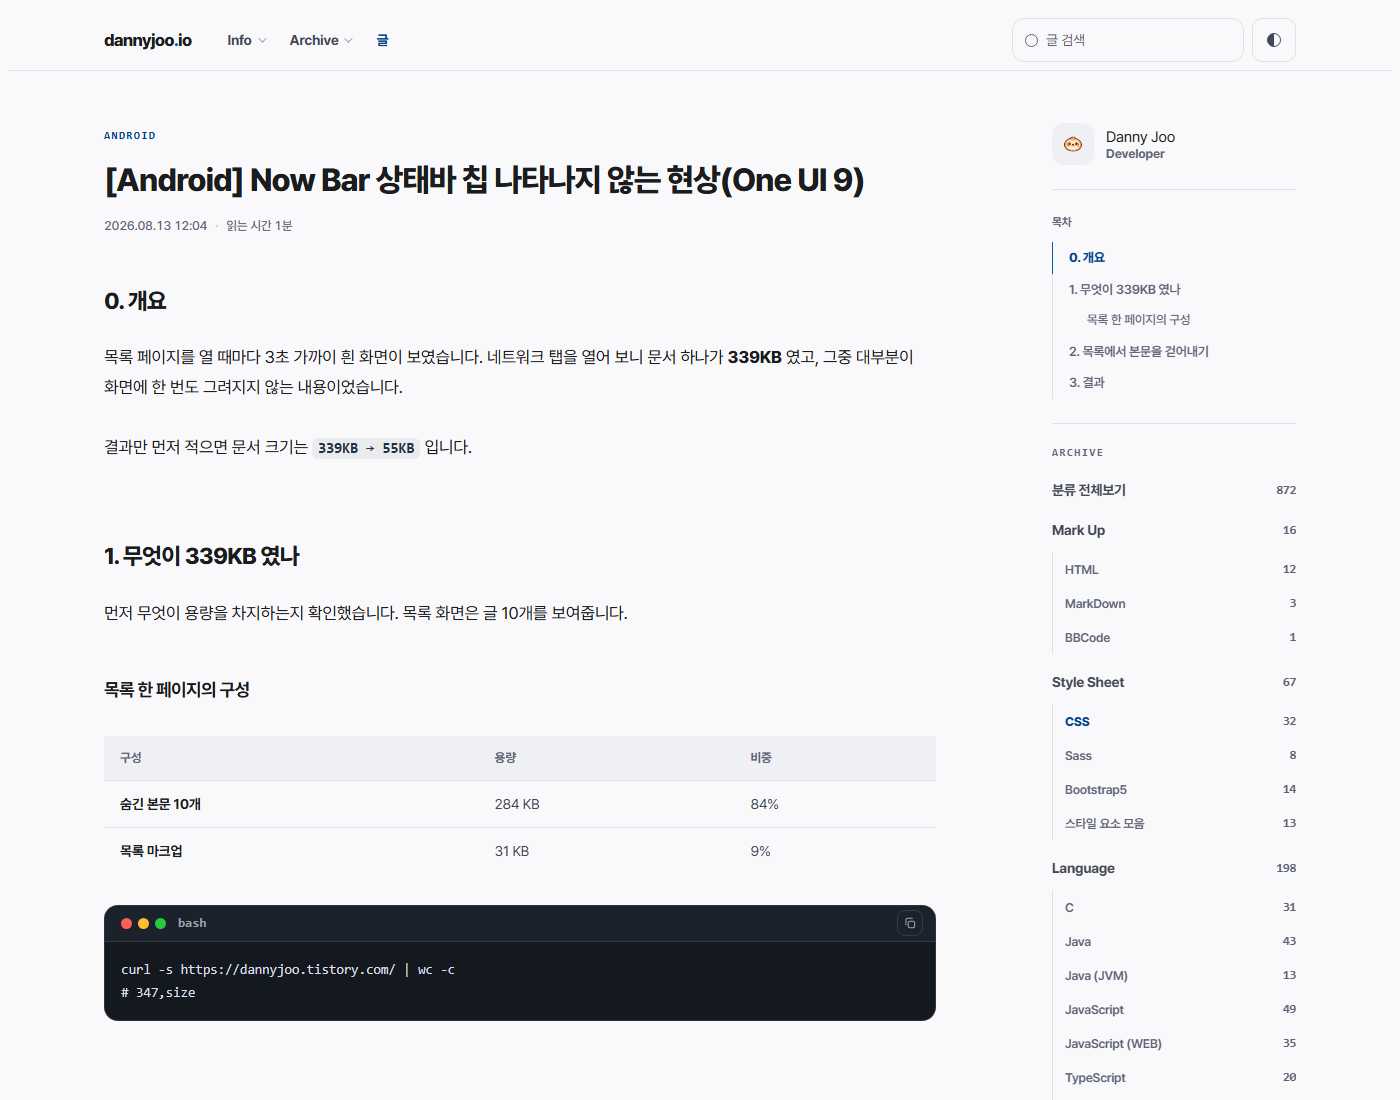
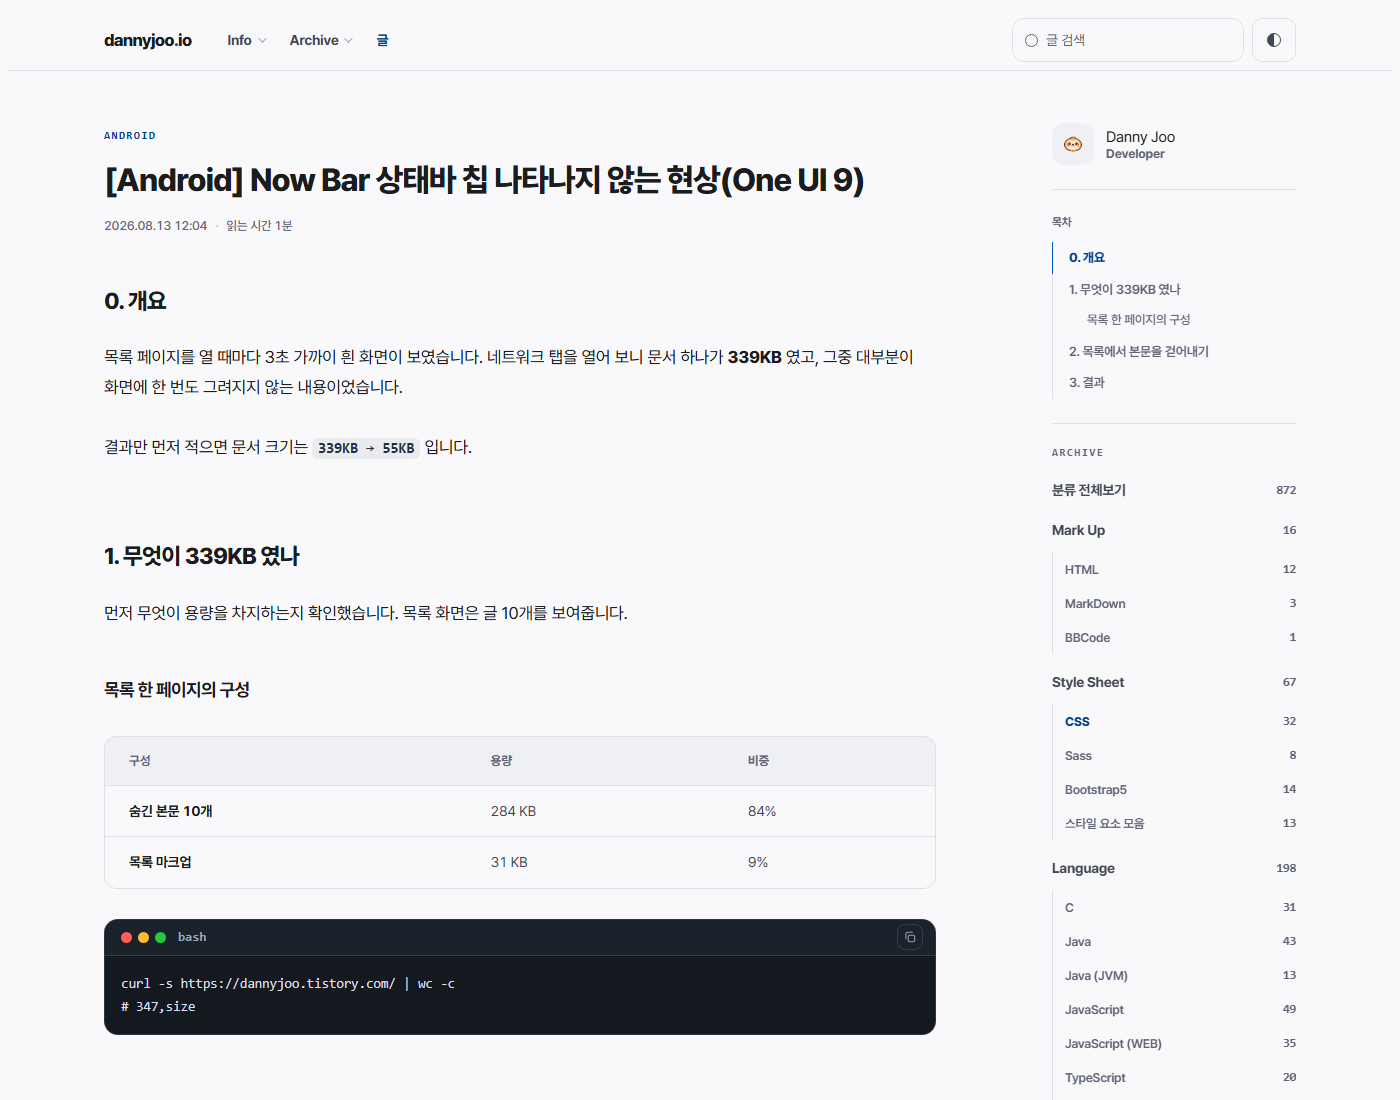
style: Grain 표 테두리·여백 정리, 인용에 강조색 선과 옅은 면

Changed region(s): [[0.0614, 0.68, 0.6757, 0.9582], [0.3379, 0.68, 0.3993, 0.7418], [0.5221, 0.68, 0.5529, 0.7418]]

diff --git a/design/blog/grain/style.css b/design/blog/grain/style.css
@@ -1334,12 +1334,18 @@ button { cursor: pointer; }
 
 /* 표. display:block 을 주면 표가 아니게 돼서 폭이 안 늘어난다.
    가로 스크롤은 감싼 div 가 맡는다 (JS 가 .table-wrap 을 씌운다) */
-.post-body .table-wrap { overflow-x: auto; margin: var(--post-gap) 0; }
+.post-body .table-wrap {
+  overflow-x: auto;
+  margin: var(--post-gap) 0;
+  border: 1px solid var(--ln);
+  border-radius: var(--r);
+}
 .post-body table {
   width: 100%;
   border-collapse: collapse;
   font-size: var(--fs-sm);
   table-layout: auto;
+  font-variant-numeric: tabular-nums;
 }
 
 /* 티스토리가 본문 끝에 끼워 넣는 블록들. 디자인에 없어서 걷어낸다.
@@ -1351,25 +1357,39 @@ button { cursor: pointer; }
    사이드바에 프로필이 이미 있어서 겹치고, 안쪽 여백을 손댈 수 없다.
    걷어내면 댓글이 자연히 위로 온다 */
 [data-tistory-react-app="Namecard"] { display: none !important; }
-.post-body th, .post-body td { padding: 11px var(--sp-4); text-align: left; }
+.post-body th, .post-body td { padding: 13px var(--sp-5); text-align: left; }
 .post-body thead th {
   background: var(--fill);
   font-weight: 700;
   font-size: var(--fs-xs);
   letter-spacing: -0.01em;
   color: var(--ink-3);
+  white-space: nowrap;
 }
 .post-body tbody tr { border-top: 1px solid var(--ln); }
+.post-body tbody tr:hover { background: var(--fill); }
 .post-body td { color: var(--ink-2); }
 .post-body td:first-child { color: var(--ink); font-weight: 700; }
 
+/* 인용. 회색 선 하나로는 본문에 묻힌다. 강조색 선과 옅은 면을 준다 */
 .post-body blockquote {
-  margin: var(--post-gap) 0 var(--post-gap) 0;
-  padding-left: var(--sp-5);
-  box-shadow: inset 2px 0 0 var(--ln-strong);
+  margin: var(--post-gap) 0;
+  padding: var(--sp-4) var(--sp-5);
+  border-left: 3px solid var(--acc);
+  border-radius: 0 var(--r) var(--r) 0;
+  background: var(--box-blue-bg);
+  box-shadow: none;
   font-size: 16.5px;
   line-height: 1.72;
   color: var(--ink-2);
+}
+.post-body blockquote > *:first-child { margin-top: 0; }
+.post-body blockquote cite {
+  display: block;
+  margin-top: var(--sp-3);
+  font-size: var(--fs-xs);
+  font-style: normal;
+  color: var(--ink-3);
 }
 /* 구분선. 티스토리는 hr[data-ke-style] 을 64px 짜리 점 스프라이트 이미지로 그린다.
    (background-image + height:20px) 얇은 선으로 되돌린다 */
